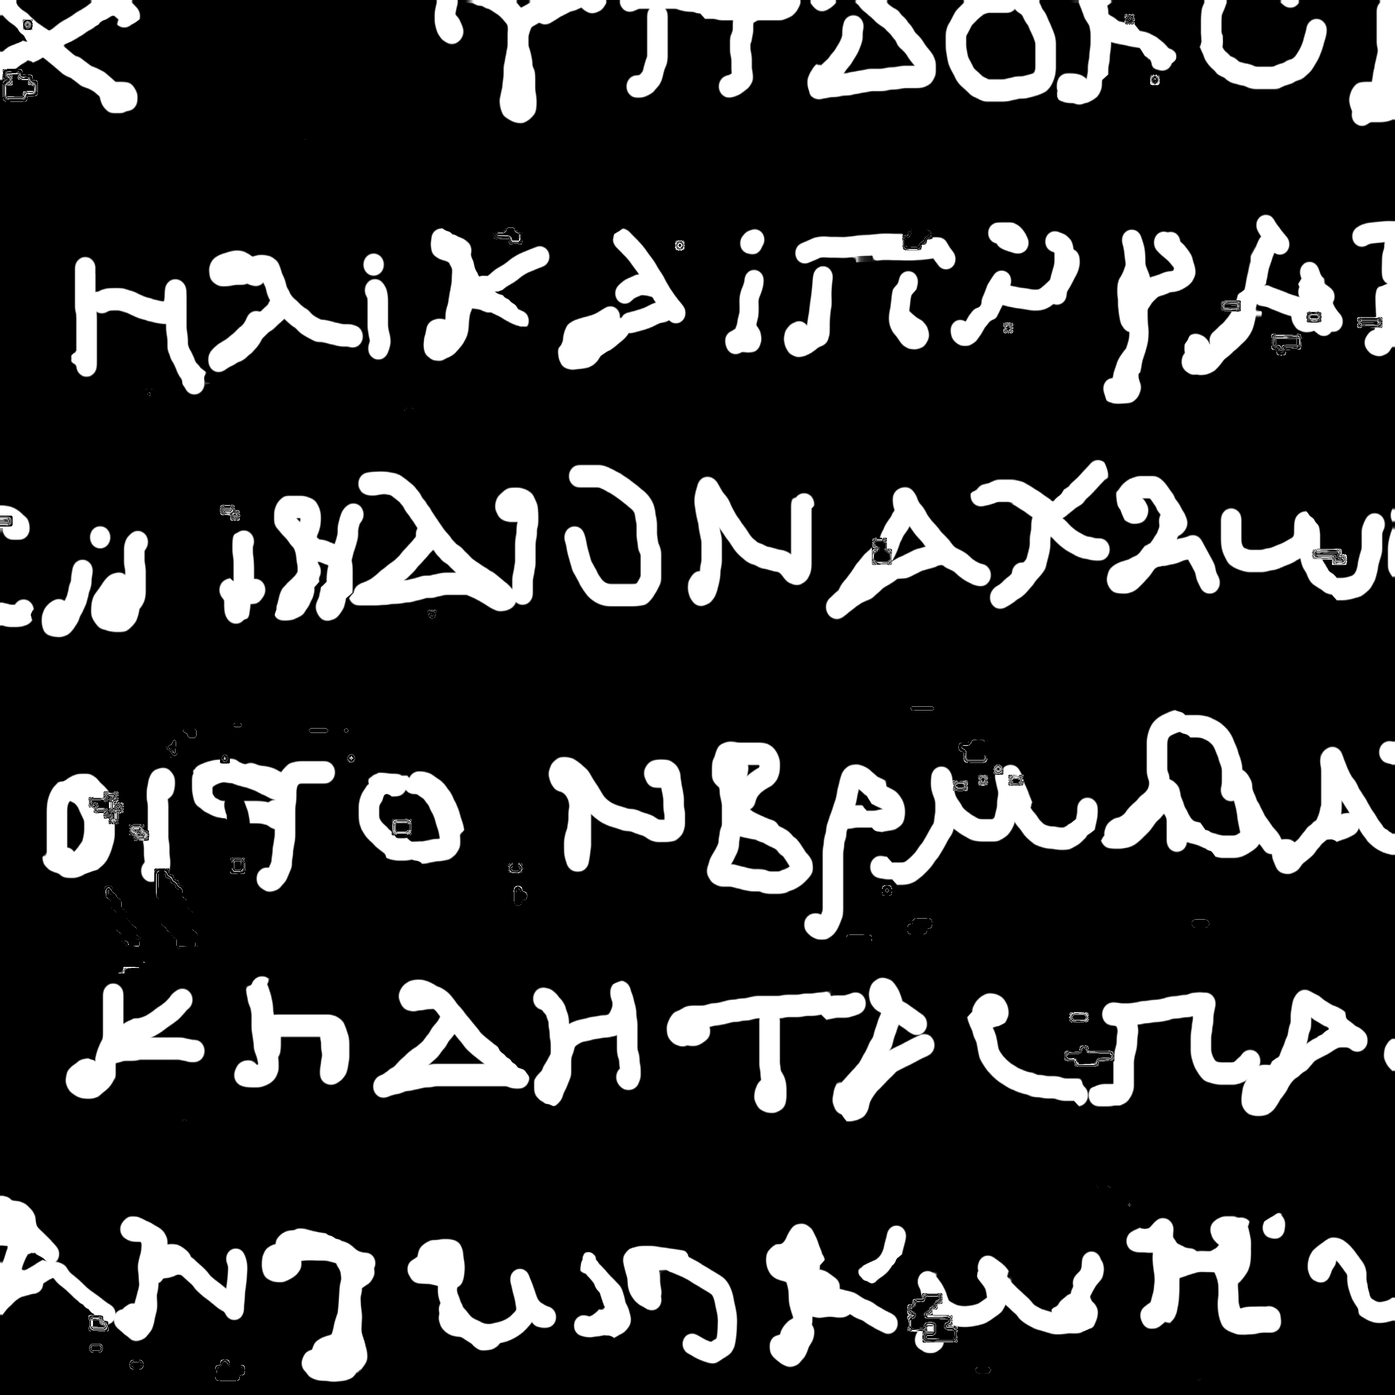
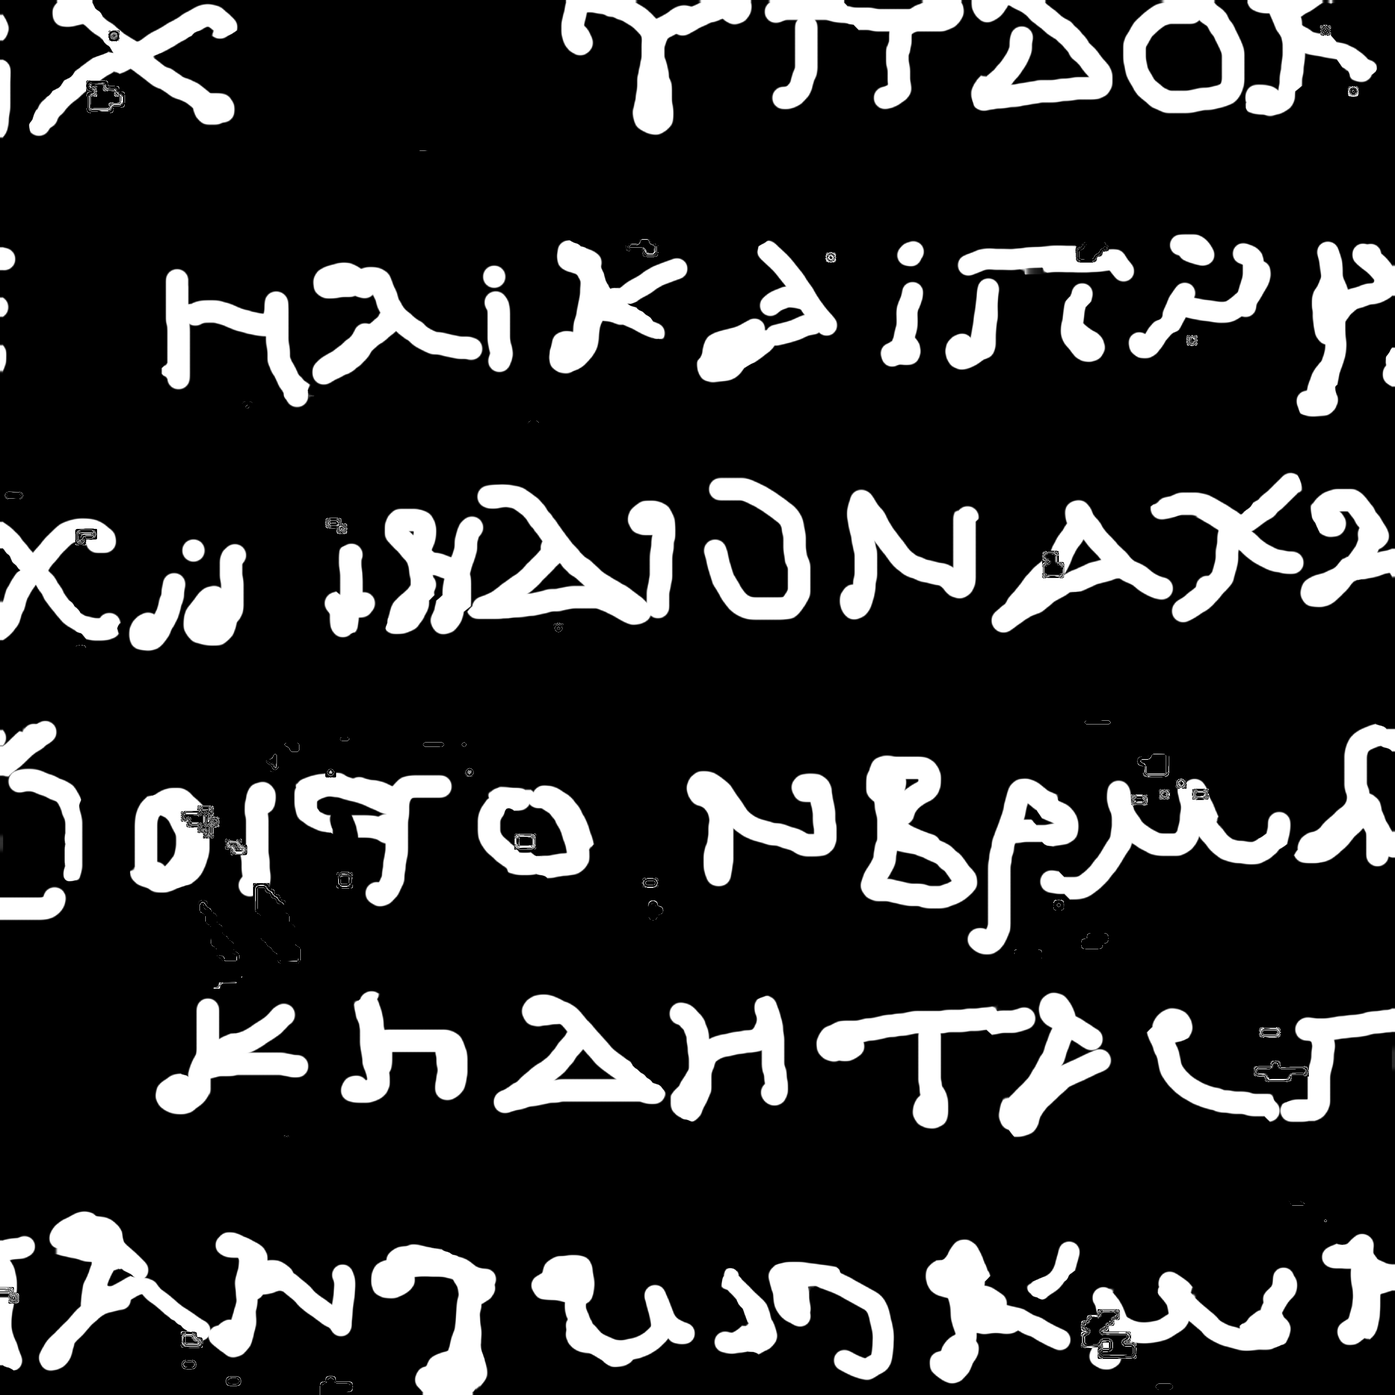
correct: re-register the held-out target; the chance result reverses
Root cause was a hardcoded LEVEL0_SHAPE in the upstream registration code
(one segment's level-0 geometry applied to all), which left this target's
label displaced and stretched ~1766 level-0 voxels.

Re-registered and re-scored. Teacher-enrichment on the same convention
went 1.68 -> 6.01 (now decisive vs 1.77/1.84/1.61). Held-out roc_auc:

  canon teacher  0.563 -> 0.753
  arm B (clean)  0.553 -> 0.731
  arm C (clean)  0.558 -> 0.746
  all-positive floor    0.518

AP-lift 1.15 -> 2.15-2.44. The "everything reads at chance held-out"
headline was an artifact of our own registration and is retracted; those
models were reading held-out ink the whole time.

The enrichment gate FAILED on the bad label and we overrode it with a
teacher-free gate, blaming a weak teacher. The gate was right.

arm C + GT fine-tune is removed rather than re-scored: it was fine-tuned
on the displaced label, so its 0.531 measured nothing.

Replaces overlay_vs_canon.png with alignment_evidence.png -- GT drawn as
an outline plus a TP/FN/FP agreement map, so alignment can actually be
judged and residual shifts show as systematic colour fringing. The old
overlay painted GT opaquely over the prediction and is why this survived
to release.

Still open: a ~130-voxel residual offset here, and a separate ~190-voxel
offset on the train-exposed target that this bug does not explain.

diff --git a/README.md b/README.md
@@ -7,32 +7,49 @@
 targets, column-level reading targets, and fiber connectivity targets, each with anti-gaming
 floors and our own negative results published.**
 
-> ## ⚠ 2026-08-07 — the three `scroll1_*` pixel targets are misregistered; their leaderboard is withdrawn
+> ## ⚠ 2026-08-07 — the held-out target was misregistered. It is fixed, and the headline result REVERSES.
 >
-> Agreement between the registered GT and the canon prediction does **not** peak at zero
-> shift. It peaks ~190 level-0 voxels away on the train-exposed target and **~1766 voxels**
-> away on the held-out flagship. Correcting a pure translation takes the canon teacher on
-> the held-out target from roc_auc 0.582 to **0.718** — clearing the "> 0.60 would be news"
-> bar stated below with two free parameters.
+> **What was wrong.** The held-out label was built with a hardcoded `LEVEL0_SHAPE` belonging
+> to a *different segment*, so its region crop was scaled wrongly — emitting a label that was
+> displaced and stretched. Agreement with the canon prediction peaked ~1766 level-0 voxels
+> away from zero shift instead of at it.
 >
-> **The "everything published reads at chance held-out" headline is therefore not
-> established**, and neither is the GT-fine-tune negative that depends on it. Do not score
-> against the `scroll1_*` targets until this is root-caused; treat published pixel rows as
-> withdrawn rather than as a bar to beat.
+> **What that means for what this benchmark claimed.** The old headline — *"everything
+> published reads at chance on the held-out segment"* — was an artifact of our own broken
+> registration. It is **retracted**. On the corrected label, on the same segment, with the
+> same models:
 >
-> The ~8-voxel residual quoted throughout measured correspondence scatter, not absolute
-> placement — a registration can have tight residuals and still be bodily displaced. We
-> shipped the former as evidence for the latter, and the shipped `overlay_vs_canon.png`
-> could not have caught it: it paints GT over a prediction that is itself near chance there.
+> | model (clean held-out) | roc_auc, old (invalid) | roc_auc, corrected |
+> |---|---|---|
+> | canon teacher | 0.563 | **0.753** |
+> | arm B (2-scroll student) | 0.553 | **0.731** |
+> | arm C (3-scroll student) | 0.558 | **0.746** |
+> | legacy detector (all-positive floor) | 0.501 | 0.518 |
 >
-> **Unaffected:** the PHerc 1667 column targets and all six fiber targets — different
-> ground truth, no registration bridge.
+> AP-prevalence-lift moves from ~1.15 (chance) to **2.15–2.44**. These models were reading
+> held-out ink the whole time; the benchmark was measuring its own misalignment.
+>
+> **The gate caught this and we overrode it.** The 2026-07 run failed the teacher-enrichment
+> gate (1.68), and we attributed that to a weak teacher and built a teacher-free gate to get
+> past it. On the fixed pipeline the same convention scores enrichment **6.01**. The gate was
+> right; we explained away a true positive.
+>
+> **Also retracted:** the GT-fine-tune negative, which was fine-tuning on displaced labels.
+>
+> **Still open:** a smaller residual offset remains, ~130 level-0 voxels on this target
+> (peak at dy=31, dx=−10 rather than zero). Corrected scores are therefore mild lower
+> bounds. The train-exposed target `scroll1_20230702185753` has a separate ~190-voxel offset
+> **not** caused by this bug and **not yet fixed** — treat its rows as provisional.
+>
+> **Unaffected:** the PHerc 1667 column targets and all six fiber targets — different ground
+> truth, no registration bridge.
 >
 > Detail + reproduction:
-> [registration_offset_2026-08-07.md](https://github.com/jonmarrs/vesuvius-autoresearch/blob/main/reports/detector/registration_offset_2026-08-07.md).
+> [registration_offset_2026-08-07.md](https://github.com/jonmarrs/vesuvius-autoresearch/blob/main/reports/detector/registration_offset_2026-08-07.md)
+> · check any registration with `scripts/probe_registration_offset.py`.
 > Found because `erdpx` closed villa PR
 > [#1280](https://github.com/ScrollPrize/villa/pull/1280) saying the alignment example
-> didn't show alignment working. It didn't.
+> didn't show alignment working. It didn't, and this is why.
 
 The Vesuvius Challenge open-data bucket ships surface volumes and *model predictions* —
 but no human ground truth aligned to the new re-flattened geometry. That makes an
@@ -46,18 +63,27 @@ one-command harness.
 
 ## Why trust this eval?
 
-> **⚠ Withdrawn 2026-08-07** — all three bullets below are scored against the
-> misregistered pixel targets (see the banner above). The eval did have teeth; it bit its
-> authors for the wrong reason. What it caught was its own displaced labels, not weak models.
+Not because it produced a dramatic negative result — it did, and the negative result was
+**our own bug**. Trust it because that is documented rather than buried:
 
-Because it has teeth — demonstrated on its own authors. Scored against these targets:
+- the 2026-07 release claimed every published model reads the held-out segment at chance;
+- the actual cause was a hardcoded constant in our registration code, found only after an
+  external reviewer said our alignment example didn't show alignment working;
+- the retraction, the root cause, the corrected numbers, and the residual error we
+  *haven't* fixed are all in this README, `baselines/BASELINES.md`, and the linked report.
 
-- the **released canon prediction** itself reads a held-out segment at ROC-AUC **0.56** (near chance);
-- our **distilled students** (which score 0.79+ on a train-exposed segment) drop to **~0.55 held-out** — distillation reproduces the teacher *including its failures*;
-- **fine-tuning on the registered GT made it worse** (0.558 → 0.531, collapsing to the trivial all-positive predictor).
+The eval had teeth. It bit its authors — for the wrong reason first, and now for the right
+one. What it actually establishes today:
 
-Every one of those negatives is published in [`baselines/BASELINES.md`](baselines/BASELINES.md).
-This benchmark was built by catching our own over-reads; it will catch yours too.
+- the **released canon prediction** reads the held-out segment at ROC-AUC **0.753**;
+- our **distilled students**, never trained on it, read it at **0.731–0.746** (AP-lift
+  2.3–2.4) — genuine held-out generalization, not the chance result we published;
+- the **all-positive floor** sits at 0.518, so those numbers are above a real baseline;
+- **a tight registration residual is not a placement check** — the ~8-voxel residual we
+  cited as evidence of correct alignment coexisted with a ~1766-voxel displacement.
+
+The full record — the withdrawn rows, the corrected rows, and what is still broken — is in
+[`baselines/BASELINES.md`](baselines/BASELINES.md).
 
 ## Quickstart
 
@@ -83,43 +109,60 @@ scrollgt check --window-px 64 --scan-um 8.0 --regions-json regions.json
 
 | target | role | registration validation |
 |---|---|---|
-| `data/scroll1_20230702185753` | train-exposed for the published baselines (disclosed) | enrichment-gated (5.05), residual 7.92vx |
+| `data/scroll1_20230702185753` | train-exposed for the published baselines (disclosed) | enrichment-gated (5.05), residual 7.92vx — ⚠ carries a separate ~190vx offset, not yet fixed |
 | `data/scroll1_20230702185753_y7000_x4000` | second region of the train-exposed segment | direct 4-candidate orientation probe (3.13 vs ≤1.50), residual 8.07vx |
-| `data/scroll1_20231210121321` | **held-out flagship** — no public model we know of trained here | teacher-free (residual 7.85vx, text-line periodicity 0.871) |
+| `data/scroll1_20231210121321` | **held-out flagship** — no public model we know of trained here | **re-registered 2026-08-07**; enrichment 6.01 (decisive), residual 7.95vx, periodicity 0.867 |
 
 A fourth gate-passing region was **withheld** because its orientation is currently
 unverifiable (chance-quality teacher there defeats the enrichment check) — see
 `baselines/BASELINES.md`. Targets only ship when validation is real.
 
-## Leaderboard (held-out flagship `scroll1_20231210121321`) — WITHDRAWN 2026-08-07
+## Leaderboard (held-out flagship `scroll1_20231210121321`)
 
-> These rows measure agreement with a ground truth displaced ~1766 level-0 voxels. They are
-> kept visible for the correction record, not as a bar to beat. See the banner at the top.
-
-The number that matters — scored against human ground truth on a segment no listed model
-trained on. Everything published so far sits at chance; **an honest ROC-AUC > 0.60 here
-would be news.** Full tables + the train-region contrast in
+**Corrected 2026-08-07** — these replace the withdrawn 2026-07 rows, which were scored
+against a misregistered label (see the banner at the top). Scored against human ground
+truth on a segment no listed model trained on. Full tables + the train-region contrast in
 [`baselines/BASELINES.md`](baselines/BASELINES.md); submit a row via
 [`CONTRIBUTING.md`](CONTRIBUTING.md).
 
-| model | exposure | ROC-AUC | AP-lift | val_f1 |
-|---|---|---|---|---|
-| canon teacher (released prediction) | — | 0.563 | 1.150 | 0.295 |
-| arm A (1-scroll student) | selection-set only | 0.563 | 1.203 | 0.311 |
-| arm B (2-scroll student) | **clean held-out** | 0.553 | 1.161 | 0.311 |
-| arm C (3-scroll student) | **clean held-out** | 0.558 | 1.165 | 0.310 |
-| arm C + GT fine-tune | **clean held-out** | 0.531 | 1.090 | 0.309 |
-| trivial all-positive | — | 0.500 | 1.000 | 0.309 |
+| model | exposure | ROC-AUC | AP-lift | val_f1 | *(withdrawn 2026-07 ROC)* |
+|---|---|---|---|---|---|
+| canon teacher (released prediction) | — | 0.753 | 2.154 | 0.572 | *0.563* |
+| arm A (1-scroll student) | selection-set only | 0.772 | 2.672 | 0.501 | *0.563* |
+| arm B (2-scroll student) | **clean held-out** | 0.731 | 2.338 | 0.440 | *0.553* |
+| arm C (3-scroll student) | **clean held-out** | 0.746 | 2.440 | 0.466 | *0.558* |
+| legacy detector (all-positive) | — | 0.518 | 1.009 | 0.311 | *0.501* |
 
-Note how close the `val_f1` column is to the trivial predictor (0.309) — at this ink
-prevalence F1 is near-degenerate, which is exactly why ScrollGT's headline is
-AP-prevalence-lift, not F1.
+The old table claimed every row sat at chance and that "an honest ROC-AUC > 0.60 would be
+news." The models were already there; our registration was hiding it. The all-positive
+floor at 0.518 / lift 1.009 is the comparison that makes the rest meaningful.
 
-Each target directory contains `gt_ink.png` (registered binary label), `meta.json`
-(exact predict-region spec + full registration provenance and caveats), and an
-`overlay_vs_canon.png` sanity visual. The ~8-voxel registration residual smears stroke
-edges at 64px scale: **scores are lower bounds on true agreement** — stated once here
-and in every meta.json, so nobody over-reads a low score either.
+`arm C + GT fine-tune` is **not listed**: it was fine-tuned on the displaced label, so its
+published 0.531 measured nothing. It needs retraining before it can be scored.
+
+Scores remain **mild lower bounds** — a residual ~130-voxel placement error is still open.
+
+Each target directory contains `gt_ink.png` (registered binary label) and `meta.json`
+(exact predict-region spec + full registration provenance and caveats).
+
+**Alignment evidence.** `data/scroll1_20231210121321/alignment_evidence.png` shows, at
+letterform scale: the canon prediction alone · the registered GT drawn as an *outline* over
+it · and a per-pixel agreement map (green = both, red = GT only, blue = prediction only).
+
+This replaces the old `overlay_vs_canon.png`, which painted the GT opaquely *on top of* the
+prediction — hiding the agreement it was supposed to demonstrate, and showing nothing at all
+on a segment where the prediction is weak. That visual is why a misregistration survived to
+release. Regenerate with
+[`scripts/make_alignment_evidence.py`](https://github.com/jonmarrs/vesuvius-autoresearch/blob/main/scripts/make_alignment_evidence.py).
+
+Read the agreement map for *systematic* colour fringing: red consistently on one edge of a
+stroke and blue on the opposite edge means a residual shift, which is exactly what this
+target still shows (~130 voxels). Symmetric fringing is just stroke-edge scatter.
+
+**Do not use the residual to judge placement.** The ~8-voxel median residual measures
+correspondence *scatter*; it was ~8 voxels while the label sat ~1766 voxels out of place.
+Use `scripts/probe_registration_offset.py`, which checks that agreement peaks at zero shift.
+Scores here remain **lower bounds on true agreement**.
 
 ## Honest-metrics contract
 

diff --git a/baselines/BASELINES.md b/baselines/BASELINES.md
@@ -1,33 +1,29 @@
 # ScrollGT baselines (v0.1)
 
-> ## ⚠ PIXEL-TARGET ROWS WITHDRAWN — 2026-08-07
+> ## ⚠ CORRECTED 2026-08-07 — the held-out table below is REPLACED; the old one was invalid
 >
-> **The registered ground truth on both Scroll-1 pixel targets is displaced.** Measured by
-> scanning Dice over pure translations against the canon prediction:
+> The held-out label was generated with a hardcoded `LEVEL0_SHAPE` belonging to a different
+> segment, so its region crop was scaled wrongly and the label came out displaced and
+> stretched (~1766 level-0 voxels off). The resulting "everything reads at chance held-out"
+> headline was an artifact of our own registration, and is **retracted**.
 >
-> | target | Dice @ 0 | Dice @ peak | offset (level-2 px) | ≈ level-0 vx |
-> |---|---|---|---|---|
-> | `scroll1_20230702185753` | 0.453 | 0.603 | (−18, −44) | ~190 |
-> | `scroll1_20231210121321` | 0.321 | 0.530 | (76, **435**) | ~1766 |
+> The held-out target has been re-registered and every row re-scored. Teacher-enrichment on
+> the same convention went 1.68 → **6.01**, and the corrected rows appear below. Note that
+> the enrichment gate *failed* on the bad label and we overrode it with a teacher-free gate,
+> attributing the failure to a weak teacher. The gate was right.
 >
-> Correcting a pure translation on the held-out flagship lifts the canon teacher from
-> roc_auc 0.582 to **0.718**, prevalence-lift 1.60 → 2.76 (binarised-predictor metric,
-> comparable between those two figures rather than to the tables below). The README calls
-> an honest ROC-AUC > 0.60 here newsworthy — a two-parameter translation clears it.
+> **`arm C + GT fine-tune` has been removed**, not re-scored: it was fine-tuned *on* the
+> displaced label, so its published 0.531 measured nothing. It must be retrained.
 >
-> **So the framing below — "on the held-out target everything collapses to near chance" —
-> is not established.** It is substantially an artifact of misregistration. The
-> `arm C + GT fine-tune` negative inherits this directly: a model fine-tuned on displaced
-> labels degrades toward the trivial predictor, which is precisely what was published as a
-> finding about ground truth.
+> **The train-exposed target is NOT fixed.** It carries a separate ~190-voxel offset that
+> this bug does not explain (its `LEVEL0_SHAPE` was correct). Its rows are **provisional**.
 >
-> The `meta.json` residual of ~8 voxels measured correspondence *scatter*; it never
-> constrained absolute placement, and the offset is 23–230× it. Root-cause is open —
-> either the registration bridge or the teacher-crop scaling misplaces its artifact.
-> **Column and fiber targets are unaffected**: different ground truth, no registration bridge.
+> A residual ~130-voxel offset also remains on the corrected held-out target, so those
+> scores are mild lower bounds. Column and fiber targets are unaffected — different ground
+> truth, no registration bridge.
 >
 > Evidence + reproduction:
-> [vesuvius-autoresearch `reports/detector/registration_offset_2026-08-07.md`](https://github.com/jonmarrs/vesuvius-autoresearch/blob/main/reports/detector/registration_offset_2026-08-07.md).
+> [registration_offset_2026-08-07.md](https://github.com/jonmarrs/vesuvius-autoresearch/blob/main/reports/detector/registration_offset_2026-08-07.md).
 > Surfaced by `erdpx` closing villa PR
 > [#1280](https://github.com/ScrollPrize/villa/pull/1280).
 
@@ -36,10 +32,11 @@ all-valid mask) against the registered ground truth. Sources: the vesuvius-autor
 reports `registered_gt_validation.json`, `registered_gt_heldout_validation.json`,
 `gt_finetune_heldout.json` (commit-tracked; see that repo for training details).
 
-**Read the two tables together — that is the benchmark's point.** On the train-exposed
-target every distilled model looks strong; on the held-out target everything collapses to
-near chance, including the released canon prediction itself. High scores on
-`scroll1_20230702185753` alone mean train-region fit, not reading.
+**Read the two tables together — that is the benchmark's point.** Train-exposed scores
+run higher than held-out ones for every model, so high scores on `scroll1_20230702185753`
+alone still mean train-region fit rather than reading. What the corrected numbers no longer
+support is the stronger claim we previously made — that held-out performance *collapses to
+chance*. It does not; it degrades.
 
 ## Target `scroll1_20230702185753` (TRAIN-EXPOSED for the distilled rows; disclosed)
 
@@ -57,20 +54,27 @@ comparison is `f1_at_0.5`.
 
 ## Target `scroll1_20231210121321` (HELD-OUT — the flagship)
 
+**Re-registered and re-scored 2026-08-07.** Registration: enrichment 6.01 (decisive vs
+1.77/1.84/1.61), residual 7.95vx, periodicity 0.867.
+
 | model | val_f1 | f1_at_0.5 | average_precision | ap_prevalence_lift | roc_auc |
 |---|---|---|---|---|---|
-| canon teacher (binarized release) | 0.2950 | 0.2950 | 0.2102 | 1.1501 | 0.5632 |
-| legacy detector | 0.3090 | 0.2668 | 0.1837 | 1.0052 | 0.5006 |
-| arm A (1-scroll student) | 0.3107 | 0.2578 | 0.2198 | 1.2027 | 0.5626 |
-| arm B (2-scroll student) | 0.3107 | 0.2431 | 0.2121 | 1.1609 | 0.5531 |
-| arm C (3-scroll student) | 0.3098 | 0.2304 | 0.2130 | 1.1654 | 0.5576 |
-| arm C + GT fine-tune (negative result) | 0.3090 | 0.1507 | 0.1991 | 1.0898 | 0.5308 |
+| canon teacher (binarized release) | 0.5718 | 0.5718 | 0.3970 | 2.1542 | 0.7526 |
+| legacy detector | 0.3112 | 0.2794 | 0.1859 | 1.0086 | 0.5176 |
+| arm A (1-scroll student) | 0.5014 | 0.5013 | 0.4924 | 2.6716 | 0.7716 |
+| arm B (2-scroll student) | 0.4404 | 0.4375 | 0.4309 | 2.3382 | 0.7305 |
+| arm C (3-scroll student) | 0.4656 | 0.4549 | 0.4496 | 2.4397 | 0.7462 |
+
+Withdrawn 2026-07 values, for the record: canon teacher 0.5632, arm A 0.5626,
+arm B 0.5531, arm C 0.5576, legacy 0.5006 roc_auc — all reported as chance.
+
+Arms B and C never saw this segment, and read it at roc_auc 0.73–0.75 with AP-lift
+2.3–2.4 against an all-positive floor of 0.518 / 1.009. That is genuine held-out
+generalization; the previous release said it was chance.
 
 Metric note: at this region's ink prevalence (~0.18) the trivial all-positive predictor
 already scores F1 ≈ 0.31, so `val_f1` is degenerate here; the robust reads are
-`ap_prevalence_lift` and `roc_auc` — all rows sit ≈ chance. The `arm C + GT fine-tune`
-row is a documented negative: fine-tuning on registered GT *reduced* discrimination and
-collapsed toward the trivial predictor.
+`ap_prevalence_lift` and `roc_auc`, where the all-positive floor sits at 1.009 / 0.518.
 
 ## Target `scroll1_20230702185753_y7000_x4000` (v0.1.1)
 
@@ -87,12 +91,14 @@ stated explicitly — read this table as a demonstration of what exposure does.*
 | arm C (3-scroll student) | teacher-supervised here | 0.4216 | 0.4204 | 0.3767 | 3.0752 | 0.7817 |
 | arm C + GT fine-tune | **GT-supervised here (its training region)** | 0.7343 | 0.7019 | 0.7919 | 6.4643 | **0.9538** |
 
-**The exhibit:** `arm C + GT fine-tune` scores **ROC 0.9538 on its own training region**
-and **0.5308 on the held-out target** (same model, table above). That 0.42-ROC gap is
-what train-region fit looks like when an eval has a held-out surface — and why scores on
-exposed regions must never be read as reading ability. (Secondary observations: the clean
-legacy row sits at chance, and the 0.95 also confirms this region's registered labels are
-learnable signal, not noise.)
+**The exhibit — ⚠ withdrawn 2026-08-07.** This previously read: `arm C + GT fine-tune`
+scores ROC 0.9538 on its own training region and 0.5308 on the held-out target, a
+0.42-ROC fit-vs-reading gap. The held-out half of that comparison was measured against the
+misregistered label, and the model itself was fine-tuned on a displaced label, so the gap
+is not interpretable. The model must be retrained on the corrected GT before the exhibit
+can be restated. The 0.9538 is retained only as evidence that this region's labels are
+learnable signal — note that a model can fit displaced labels perfectly well, so it says
+nothing about placement.
 
 ## A target we did NOT ship (and why)
 
